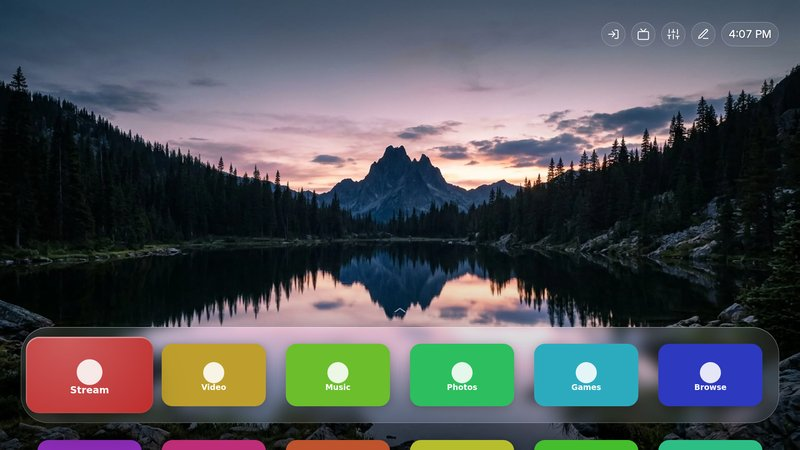
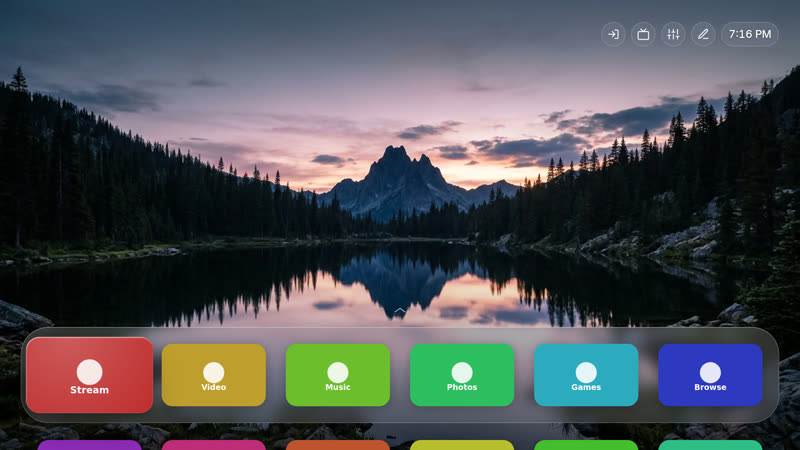
Lounge theme: the platter as clearly frosted glass and a light, milky grid glass, as on tvOS

diff --git a/docs/themes.md b/docs/themes.md
@@ -40,7 +40,7 @@ folder of the GitHub repository (the `main` branch):
 | Couch | After [couch-tv](https://github.com/Seagey/couch-tv): five landscapes take turns every 20 seconds behind a large glass clock, the scenery in front of the digits; the date above the clock, round buttons top right, the apps on glass at the bottom; cards on frosted glass. Uses `clock.style`, `effects.scenes` and `cards.style`. |
 | Lock Screen | A phone-style lock screen: a greeting and a big clock top left, and a small, translucent dock low in the corner over a calm blue landscape, so the picture fills the screen. Down moves the dock up and shows all apps below it. Turn Wallpapers on for your own photos. It has slots for cards (Customise > Cards): the greeting is one, and there is a place under the clock. |
 | Moon | A moonlit autumn landscape with a four-app glass dock, warm focus, app-colour rails and places for cards around the clock. |
-| Lounge | A streaming-box home screen: six wide icons on a glass platter over the Couch landscapes (or your Wallpapers photos), smooth focus with a soft light and shadow, the app's name under it in the grid, a glass pill clock, and a first grid row that peeks at the bottom. Uses `effects.motion`, `tile.label`, `grid.peek`, `grid.scroll`, `effects.scenesYield`, `surface.tint`, `grid.hideTop`, `effects.bottomShade`, `dock.chevron`, `dock.glass` and the Inter 4 variable font set like SF Pro (`type.variable`, `type.opsz`, the `type.weight` keys). |
+| Lounge | A streaming-box home screen: six wide icons on a glass platter over the Couch landscapes (or your Wallpapers photos), smooth focus with a soft light and shadow, the app's name under it in the grid, a glass pill clock, and a first grid row that peeks at the bottom. Uses `effects.motion`, `tile.label`, `grid.peek`, `grid.scroll`, `effects.scenesYield`, `surface.tint`, `grid.hideTop`, `effects.bottomShade`, `dock.chevron`, `dock.glass` with `dock.glassFrost`, a milky grid glass (`grid.glassMilk`, `effects.glassBlur`) and the Inter 4 variable font set like SF Pro (`type.variable`, `type.opsz`, the `type.weight` keys). |
 
 ![Classic, Compact, Large print and Midnight](screenshots/themes-1.jpg)
 

diff --git a/themes/README.md b/themes/README.md
@@ -81,7 +81,7 @@ Folder: [`moon/`](moon/)
 
 ### Lounge
 
-A streaming-box home screen: six wide icons on a glass platter at the bottom over the Couch landscapes, or over your own photos when Wallpapers is on. The focused app grows smoothly with a soft light and shadow and its name under it in the grid; the time sits in a small glass pill. Down turns the row into the first row of the grid, which peeks at the bottom of the screen, over frosted glass. Typeface: Inter 4.1, the variable font with its weight and optical size axes, cut down to the Latin characters of the launcher's languages (Latin Extended and Vietnamese included) and otherwise unmodified, set like SF Pro on tvOS: the Display design from 20 px, Medium for names, the time and menu rows, Semibold for titles (SIL Open Font License 1.1, `OFL.txt`).
+A streaming-box home screen: six wide icons on a frosted glass platter at the bottom over the Couch landscapes, or over your own photos when Wallpapers is on. The focused app grows smoothly with a soft light and shadow and its name under it in the grid; the time sits in a small glass pill. Down turns the row into the first row of the grid, which peeks at the bottom of the screen, over light, milky frosted glass. Typeface: Inter 4.1, the variable font with its weight and optical size axes, cut down to the Latin characters of the launcher's languages (Latin Extended and Vietnamese included) and otherwise unmodified, set like SF Pro on tvOS: the Display design from 20 px, Medium for names, the time and menu rows, Semibold for titles (SIL Open Font License 1.1, `OFL.txt`).
 
 [![Lounge](lounge/preview.jpg)](lounge/preview.jpg)
 
